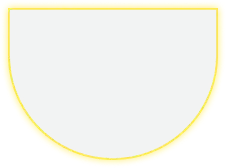
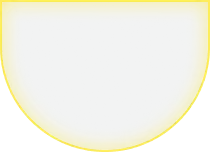
fix: add shadow for highlight - Epic GL-4391

Changed region(s): [[0.0, 0.0, 1.0, 1.0]]

diff --git a/packages/baccarat-multiplayer/src/betting-block/baccarat-highlight-prev-round-bet-option.module.scss b/packages/baccarat-multiplayer/src/betting-block/baccarat-highlight-prev-round-bet-option.module.scss
@@ -25,38 +25,13 @@
     stroke-width: 1.8;
     background: linear-gradient(180deg, rgba(255, 217, 5, 0.6) 0%, #ffffff 50%, #ffea00 100%);
 }
-
 .highlight {
     @extend %highlight-option;
-    width: 203px;
-    height: 190px;
+    width: 183px;
+    height: 169px;
 
     @media (width >= 48rem) {
         width: 220px;
-    }
-
-    &.player {
-        width: 203px;
-        height: 190px;
-        @media (width >= 48rem) {
-            width: 220px;
-        }
-        // transform: translateY(20px);
-        // transform: translateX(-10px);
-        margin-top: -10px;
-        margin-left: -10.5px;
-    }
-
-    &.banker {
-        width: 203px;
-        height: 190px;
-        @media (width >= 48rem) {
-            width: 220px;
-        }
-        // transform: translateY(20px);
-        // transform: translateX(-10px);
-        margin-top: -10px;
-        margin-left: -10.5px;
     }
 
     &.tie {
@@ -74,4 +49,56 @@
             width: 105px;
         }
     }
+}
+
+.playerPrevShadow {
+    position: absolute;
+    top: -8px;
+    left: -8px;
+    width: 199px;
+    height: 185px;
+    background-image: url("/static/images/highlight-winning/highlight-winning-player-box-shadow.webp");
+    background-size: contain;
+    background-repeat: no-repeat;
+    background-position: center;
+    z-index: 0;
+}
+
+.bankerPrevShadow {
+    position: absolute;
+    top: -8px;
+    left: -8px;
+    width: 199px;
+    height: 185px;
+    background-image: url("/static/images/highlight-winning/highlight-winning-banker-box-shadow.webp");
+    background-size: contain;
+    background-repeat: no-repeat;
+    background-position: center;
+    z-index: 0;
+}
+
+.tiePrevShadow {
+    position: absolute;
+    top: -4px;
+    left: -4px;
+    width: 114px;
+    height: 84px;
+    background-image: url("/static/images/highlight-winning/highlight-winning-tie-box-shadow.webp");
+    background-size: contain;
+    background-repeat: no-repeat;
+    background-position: center;
+    z-index: 0;
+}
+
+.anyPairPrevShadow {
+    position: absolute;
+    top: -4px;
+    left: -4px;
+    width: 113px;
+    height: 81px;
+    background-image: url("/static/images/highlight-winning/highlight-winning-anypair-box-shadow.webp");
+    background-size: contain;
+    background-repeat: no-repeat;
+    background-position: center;
+    z-index: 0;
 }

diff --git a/packages/baccarat-multiplayer/src/betting-block/baccarat-highlight-prev-round-bet-option.tsx b/packages/baccarat-multiplayer/src/betting-block/baccarat-highlight-prev-round-bet-option.tsx
@@ -15,7 +15,7 @@ export const BaccaratHighlightPrevRoundBetOption = ({ choice }: { choice: string
     const getImagePath = (choice: string): string => {
         switch (choice) {
             case Winner.PLAYER:
-                return `${basePath}/static/images/highlight-winning/highlight-winning-player.png`;
+                return `${basePath}/static/images/highlight-winning/highlight-winning-player.webp`;
             case Winner.BANKER:
                 return `${basePath}/static/images/highlight-winning/highlight-winning-banker.webp`;
             case Winner.TIE:
@@ -28,9 +28,13 @@ export const BaccaratHighlightPrevRoundBetOption = ({ choice }: { choice: string
     };
 
     const imagePath = getImagePath(choice);
+    const shadowClass = choice === "player" ? styles.playerPrevShadow : choice === "banker" ? styles.bankerPrevShadow : choice === "tie" ? styles.tiePrevShadow : choice === "anyPair" ? styles.anyPairPrevShadow : "";
 
     return true && imagePath ? (
+
         <div className={`${styles["highlight"]} ${styles[choice]}`}>
+            {shadowClass && <div className={shadowClass}></div>}
+            
             <Image
                 src={imagePath}
                 alt={`highlight-winning-${choice}`}
